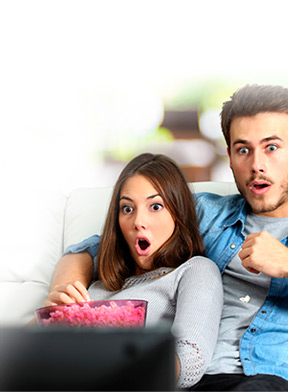
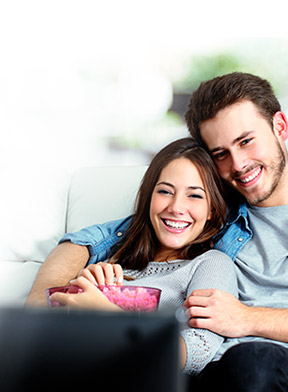
MAJ LOL magazine

diff --git a/public_html/divers/brochure.html b/public_html/divers/brochure.html
@@ -180,7 +180,6 @@
                         </div>
                     </div>
                 </div>
-
                 <div id="bottom-menu-header">                    
                     <nav class="bottom-menu-header-links mobile display-phone display-tab">
                         <div class="pull-left">
@@ -263,8 +262,8 @@
                                  alt="Homme offre mobile" />
                         </div>
                         <div class="phone-12 desk-6">
-                            <h1 class="section-title lowercase">Notre <span class="bold">magazine</span></h1>
-                            <p class="section-text">Vous souhaitez connaître nos offres ? Consultez ci-dessous notre magazine en ligne ou n'hésitez pas à vous le procurer directement
+                            <h1 class="section-title lowercase">Notre <span class="bold">brochure</span></h1>
+                            <p class="section-text">Vous souhaitez connaître nos offres ? Consultez ci-dessous notre brochure en ligne ou n'hésitez pas à vous le procurer directement
                                 en boutique.</p>
                         </div>
                     </div>
@@ -321,15 +320,15 @@
                     <div class="clearfix phone-mt-30">
                         <div class="phone-12 tab-6 phone-mb-20 tab-mb-0">
                             <div id="slider-magazine1">
-                                <img src="../images/magazine/3-2016/fr/Magazine_201603_1.jpg" alt="couverture magazine francais" />
+                                <img src="../images/magazine/9-2016/fr/Magazine_201609_1.jpg" alt="couverture magazine francais" />
                             </div>
                             <div style="text-align: center;margin:25px 0;">
-                                Cliquez sur l'image pour ouvrir le magazine
+                                Cliquez sur l'image pour ouvrir la brochure
                             </div>
                         </div>
                         <div class="phone-12 tab-6">
                             <div id="slider-magazine2">
-                                <img src="../images/magazine/3-2016/en/Magazine_201603_1.jpg" alt="couverture magazine anglais" />
+                                <img src="../images/magazine/9-2016/en/Magazine_201609_1.jpg" alt="couverture magazine anglais" />
                             </div>
                             <div style="text-align: center;margin:25px 0;">
                                 Click to open and read now
@@ -484,58 +483,70 @@
                     // build items array
                     var items = [
                         {
-                            src: '../images/magazine/3-2016/fr/Magazine_201603_1.jpg',
+                            src: '../images/magazine/9-2016/fr/Magazine_201609_1.jpg',
                             w: 906,
                             h: 1280,
                             title: 'LOL Magazine - Page 1'
                         },
                         {
-                            src: '../images/magazine/3-2016/fr/Magazine_201603_2.jpg',
+                            src: '../images/magazine/9-2016/fr/Magazine_201609_2.jpg',
                             w: 1811,
                             h: 1280,
                             title: 'LOL Magazine - Page 2'
                         },
                         {
-                            src: '../images/magazine/3-2016/fr/Magazine_201603_3.jpg',
+                            src: '../images/magazine/9-2016/fr/Magazine_201609_3.jpg',
                             w: 1811,
                             h: 1280,
                             title: 'LOL Magazine - Page 3'
                         },
                         {
-                            src: '../images/magazine/3-2016/fr/Magazine_201603_4.jpg',
+                            src: '../images/magazine/9-2016/fr/Magazine_201609_4.jpg',
                             w: 1811,
                             h: 1280,
                             title: 'LOL Magazine - Page 4'
                         },
                         {
-                            src: '../images/magazine/3-2016/fr/Magazine_201603_5.jpg',
+                            src: '../images/magazine/9-2016/fr/Magazine_201609_5.jpg',
                             w: 1811,
                             h: 1280,
                             title: 'LOL Magazine - Page 5'
                         },
                         {
-                            src: '../images/magazine/3-2016/fr/Magazine_201603_6.jpg',
+                            src: '../images/magazine/9-2016/fr/Magazine_201609_6.jpg',
                             w: 1811,
                             h: 1280,
                             title: 'LOL Magazine - Page 6'
                         },
                         {
-                            src: '../images/magazine/3-2016/fr/Magazine_201603_7.jpg',
+                            src: '../images/magazine/9-2016/fr/Magazine_201609_7.jpg',
                             w: 1811,
                             h: 1280,
                             title: 'LOL Magazine - Page 7'
                         },
                         {
-                            src: '../images/magazine/3-2016/fr/Magazine_201603_8.jpg',
+                            src: '../images/magazine/9-2016/fr/Magazine_201609_8.jpg',
                             w: 1811,
                             h: 1280,
                             title: 'LOL Magazine - Page 8'
                         },
                         {
-                            src: '../images/magazine/3-2016/fr/Magazine_201603_9.jpg',
-                            w: 906,
+                            src: '../images/magazine/9-2016/fr/Magazine_201609_9.jpg',
+                            w: 1811,
                             h: 1280,
                             title: 'LOL Magazine - Page 9'
+                        },
+                        {
+                            src: '../images/magazine/9-2016/fr/Magazine_201609_10.jpg',
+                            w: 1811,
+                            h: 1280,
+                            title: 'LOL Magazine - Page 10'
+                        },
+                        {
+                            src: '../images/magazine/9-2016/fr/Magazine_201609_11.jpg',
+                            w: 906,
+                            h: 1280,
+                            title: 'LOL Magazine - Page 11'
                         }
                     ];
 
@@ -559,58 +570,70 @@
                     // build items array
                     var items = [
                         {
-                            src: '../images/magazine/3-2016/en/Magazine_201603_1.jpg',
+                            src: '../images/magazine/9-2016/en/Magazine_201609_1.jpg',
                             w: 906,
                             h: 1280,
                             title: 'LOL Magazine - Page 1'
                         },
                         {
-                            src: '../images/magazine/3-2016/en/Magazine_201603_2.jpg',
+                            src: '../images/magazine/9-2016/en/Magazine_201609_2.jpg',
                             w: 1811,
                             h: 1280,
                             title: 'LOL Magazine - Page 2'
                         },
                         {
-                            src: '../images/magazine/3-2016/en/Magazine_201603_3.jpg',
+                            src: '../images/magazine/9-2016/en/Magazine_201609_3.jpg',
                             w: 1811,
                             h: 1280,
                             title: 'LOL Magazine - Page 3'
                         },
                         {
-                            src: '../images/magazine/3-2016/en/Magazine_201603_4.jpg',
+                            src: '../images/magazine/9-2016/en/Magazine_201609_4.jpg',
                             w: 1811,
                             h: 1280,
                             title: 'LOL Magazine - Page 4'
                         },
                         {
-                            src: '../images/magazine/3-2016/en/Magazine_201603_5.jpg',
+                            src: '../images/magazine/9-2016/en/Magazine_201609_5.jpg',
                             w: 1811,
                             h: 1280,
                             title: 'LOL Magazine - Page 5'
                         },
                         {
-                            src: '../images/magazine/3-2016/en/Magazine_201603_6.jpg',
+                            src: '../images/magazine/9-2016/en/Magazine_201609_6.jpg',
                             w: 1811,
                             h: 1280,
                             title: 'LOL Magazine - Page 6'
                         },
                         {
-                            src: '../images/magazine/3-2016/en/Magazine_201603_7.jpg',
+                            src: '../images/magazine/9-2016/en/Magazine_201609_7.jpg',
                             w: 1811,
                             h: 1280,
                             title: 'LOL Magazine - Page 7'
                         },
                         {
-                            src: '../images/magazine/3-2016/en/Magazine_201603_8.jpg',
+                            src: '../images/magazine/9-2016/en/Magazine_201609_8.jpg',
                             w: 1811,
                             h: 1280,
                             title: 'LOL Magazine - Page 8'
                         },
                         {
-                            src: '../images/magazine/3-2016/en/Magazine_201603_9.jpg',
-                            w: 906,
+                            src: '../images/magazine/9-2016/en/Magazine_201609_9.jpg',
+                            w: 1811,
                             h: 1280,
                             title: 'LOL Magazine - Page 9'
+                        },
+                        {
+                            src: '../images/magazine/9-2016/en/Magazine_201609_10.jpg',
+                            w: 1811,
+                            h: 1280,
+                            title: 'LOL Magazine - Page 10'
+                        },
+                        {
+                            src: '../images/magazine/9-2016/en/Magazine_201609_11.jpg',
+                            w: 906,
+                            h: 1280,
+                            title: 'LOL Magazine - Page 11'
                         }
                     ];
 

diff --git a/public_html/promos/fibre.html b/public_html/promos/fibre.html
@@ -249,11 +249,11 @@
 
             </header>
 
-            <section id="promo-fibre-2x" class="section-layout section-background-image section-shadow">
+            <section id="promo-fibre-2x" class="section-layout section-background-image section-shadow image-1">
                 <div class="container-wrapper">
                     <div class="row">
                         <div class="phone-12 desk-10">
-                            <h1 class="section-title extra-bold blue">offre fibre<span style="font-size: 0.3em;" class="exponent">(1)</span></h1>
+                            <h1 style="margin: 12px 0 15px;" class="section-title extra-bold blue">offre fibre<span style="font-size: 0.3em;" class="exponent">(1)</span></h1>
                             <p class="section-description blue phone-mb-0"><span class="bold">LOL</span>FIBER 100 devient <span class="bold">LOL</span>FIBER 200<br/>Frais d'installation et de câblage fibre <span class="extra-bold">offerts !</span></p>
                         </div>
                     </div>
@@ -505,19 +505,6 @@
         <script type="text/javascript" src="../scripts/internetscript.js"></script>
         <script type="text/javascript">
             $(function () {
-                if (window.location.hash) {
-                    var vhash = (window.location.hash.split('#')[1]).split(";");
-                    removeHash();
-                    if (vhash[0] == "vitesse2x") {
-                        $('#promo-fibre-2x').addClass('image-2');
-                    } else if (vhash[0] == "2xplusrapide") {
-                        $('#promo-fibre-2x').addClass('image-1');
-                    } else {
-                        $('#promo-fibre-2x').addClass('image-' + getRandomInt(1, 3));
-                    }
-                } else {
-                    $('#promo-fibre-2x').addClass('image-' + getRandomInt(1, 3));
-                }
                 $('.main-gallery').flickity({
                     // options
                     cellAlign: 'center',

diff --git a/public_html/divers/plan.html b/public_html/divers/plan.html
@@ -317,7 +317,7 @@
                                 <h2>Divers</h2>
                                 <ul>
                                     <li><a href="../divers/assistance.html"><span class="icon-right-arrow"></span>Assistance</a></li>
-                                    <li><a href="../divers/brochure.html"><span class="icon-right-arrow"></span>Magazine</a></li>
+                                    <li><a href="../divers/brochure.html"><span class="icon-right-arrow"></span>Brochure</a></li>
                                     <li><a href="../divers/propos.html"><span class="icon-right-arrow"></span>À propos</a></li>
                                     <li><a href="../divers/contact.html"><span class="icon-right-arrow"></span>Contact</a></li>
                                     <li><a href="../promos/fibre.html"><span class="icon-right-arrow"></span>Promos</a></li>
@@ -332,7 +332,8 @@
                                     <li><a href="http://www.internet.lu/lolcloud/index.htm" target="blank_"><span class="icon-right-arrow"></span>LOLCLOUD</a></li>
                                     <li><a href="http://www.internet.lu/business/" target="blank_"><span class="icon-right-arrow"></span>Site business</a></li>
                                     <li><a href="http://www.online.lu" target="blank_"><span class="icon-right-arrow"></span>Online.lu</a></li>
-                                    <li><a href="http://www.fibre.lu" target="_blank"><span class="icon-right-arrow"></span>Fibre.lu</a></li>                                                           </ul>
+                                    <li><a href="http://www.fibre.lu" target="_blank"><span class="icon-right-arrow"></span>Fibre.lu</a></li>
+                                </ul>
                             </div>
                         </div>
                     </div>

diff --git a/public_html/shop/offres.html b/public_html/shop/offres.html
@@ -99,7 +99,7 @@
                     <ul class="menu">
                         <li class="menu-item link"><a href="http://www.internet.lu/divers/assistance.html">Assistance</a></li>
                         <li class="menu-item link"><a href="http://www.internet.lu/lolcloud/index.htm" target="blank_">LOLCLOUD</a></li>
-                        <li class="menu-item link"><a href="http://www.internet.lu/divers/magazine.html">Magazine</a></li>
+                        <li class="menu-item link"><a href="http://www.internet.lu/divers/brochure.html">Brochure</a></li>
                         <li class="menu-item link"><a href="http://www.internet.lu/divers/propos.html">À propos</a></li>
                         <li class="menu-item link"><a href="http://www.internet.lu/divers/contact.html">Contact</a></li>
                         <li class="menu-item link"><a href="http://www.internet.lu/divers/emploi.html">Offres d'emploi</a></li>
@@ -163,7 +163,7 @@
                                 <ul class="top-menu-header-links right">
                                     <li><a href="http://www.internet.lu/divers/assistance.html">Assistance</a></li>
                                     <li><a href="http://www.internet.lu/lolcloud/index.htm" target="_blank">LOLCLOUD</a></li>
-                                    <li><a href="http://www.internet.lu/divers/magazine.html">Magazine</a></li>
+                                    <li><a href="http://www.internet.lu/divers/brochure.html">Brochure</a></li>
                                     <li><a href="http://www.internet.lu/divers/propos.html">À propos</a></li>
                                     <li><a href="http://www.internet.lu/divers/contact.html">Contact</a></li>
                                 </ul>

diff --git a/public_html/shop/inscription.html b/public_html/shop/inscription.html
@@ -88,7 +88,7 @@
                     <ul class="menu">
                         <li class="menu-item link"><a href="../divers/assistance.html">Assistance</a></li>
                         <li class="menu-item link"><a href="http://www.internet.lu/lolcloud/index.htm" target="blank_">LOLCLOUD</a></li>
-                        <li class="menu-item link"><a href="http://www.internet.lu/divers/magazine.html">Magazine</a></li>
+                        <li class="menu-item link"><a href="http://www.internet.lu/divers/brochure.html">Brochure</a></li>
                         <li class="menu-item link"><a href="http://www.internet.lu/divers/propos.html">À propos</a></li>
                         <li class="menu-item link"><a href="http://www.internet.lu/divers/contact.html">Contact</a></li>
                         <li class="menu-item link"><a href="http://www.internet.lu/divers/emploi.html">Offres d'emploi</a></li>
@@ -151,7 +151,7 @@
                                 <ul class="top-menu-header-links right">
                                     <li><a href="http://www.internet.lu/divers/assistance.html">Assistance</a></li>
                                     <li><a href="http://www.internet.lu/lolcloud/index.htm" target="_blank">LOLCLOUD</a></li>
-                                    <li><a href="http://www.internet.lu/divers/magazine.html">Magazine</a></li>
+                                    <li><a href="http://www.internet.lu/divers/brochure.html">Brochure</a></li>
                                     <li><a href="http://www.internet.lu/divers/propos.html">À propos</a></li>
                                     <li><a href="http://www.internet.lu/divers/contact.html">Contact</a></li>
                                 </ul>

diff --git a/public_html/index.htm b/public_html/index.htm
@@ -257,7 +257,7 @@
                                 <div class="row">
                                     <div class="phone-12 desk-10">
                                         <h2  class="title">
-                                            <span class="lowercase">LOLFIBER 200 Mbit/s</span>
+                                            <span class="lowercase">LOLFIBER 200 Mbits/s</span>
                                         </h2>
                                         <div class="section-price phone-mb-10 tab-mb-15 orange">
                                             <div>,90€</div>
@@ -398,7 +398,7 @@
                             <h1 class="section-title">découvrez toutes nos offres
                                 <strong>adaptées à vos besoins !</strong>
                             </h1>
-                            <p class="section-text">Internet, téléphonie fixe, téléphonie mobile ou télévision. Consultez notre magazine pour découvrir l’intégralité de nos offres ainsi que les promotions du moment.</p>
+                            <p class="section-text">Internet, téléphonie fixe, téléphonie mobile ou télévision. Consultez notre brochure pour découvrir l’intégralité de nos offres ainsi que les promotions du moment.</p>
                             <a class="btn-outline-white" href="divers/brochure.html">Consultez la brochure</a>
                         </div>
                     </div>

diff --git a/public_html/styles/scss/slider_src.scss b/public_html/styles/scss/slider_src.scss
@@ -103,8 +103,8 @@
 }
 #slider-contents .infos.image-4{
     .title{
-        font-size: 30px;
-        line-height: 32px;
+        font-size: 29px;
+        line-height: 25px;
     }
 } 
 #slider-contents .infos.image-2 .title{
@@ -144,7 +144,7 @@
         span.chapeau{font-size: 0.5em;}
     }
     #slider-contents .infos.image-4 .title{
-        font-size: 50px;
+        font-size: 42px;
         line-height: 40px;
         span.chapeau{font-size: 0.5em;}
     }
@@ -237,7 +237,7 @@
         span.chapeau{line-height: 40px}
     }
     #slider-contents .infos.image-4 .title {
-        font-size: 58px;
+        font-size: 45px;
         line-height: 43px;
     }
     #slider-contents .image-5 .btn-orange{

diff --git a/public_html/styles/css/slider_src.css b/public_html/styles/css/slider_src.css
@@ -59,8 +59,8 @@
   line-height: 30px; }
 
 #slider-contents .infos.image-4 .title {
-  font-size: 30px;
-  line-height: 32px; }
+  font-size: 29px;
+  line-height: 25px; }
 
 #slider-contents .infos.image-2 .title {
   font-size: 26px;
@@ -100,7 +100,7 @@
       font-size: 0.5em; }
 
   #slider-contents .infos.image-4 .title {
-    font-size: 50px;
+    font-size: 42px;
     line-height: 40px; }
     #slider-contents .infos.image-4 .title span.chapeau {
       font-size: 0.5em; }
@@ -179,7 +179,7 @@
       line-height: 40px; }
 
   #slider-contents .infos.image-4 .title {
-    font-size: 58px;
+    font-size: 45px;
     line-height: 43px; }
 
   #slider-contents .image-5 .btn-orange {

diff --git a/public_html/styles/css/promos/promos.css b/public_html/styles/css/promos/promos.css
@@ -2,8 +2,6 @@
 #promo-fibre-2x.image-1, #promo-fibre-2x.image-2 {
   text-align: center !important; }
 #promo-fibre-2x.image-1 {
-  background-image: url("../../../images/promos/Promo_Fibre/Promo_Fibrex2_Visuel2_672x400px.jpg"); }
-#promo-fibre-2x.image-2 {
   background-image: url("../../../images/promos/Promo_Fibre/Promo_Fibrex2_Visuel1_672x400px.jpg"); }
 
 #promo-noel:not(.not-accueil) {

diff --git a/public_html/styles/scss/promos/_module.scss b/public_html/styles/scss/promos/_module.scss
@@ -1,9 +1,6 @@
 #promo-fibre-2x{
     &.image-1, &.image-2{text-align: center !important;}
     &.image-1{
-        background-image: url('../../../images/promos/Promo_Fibre/Promo_Fibrex2_Visuel2_672x400px.jpg');
-    }
-    &.image-2{
         background-image: url('../../../images/promos/Promo_Fibre/Promo_Fibrex2_Visuel1_672x400px.jpg');
     }
 }
